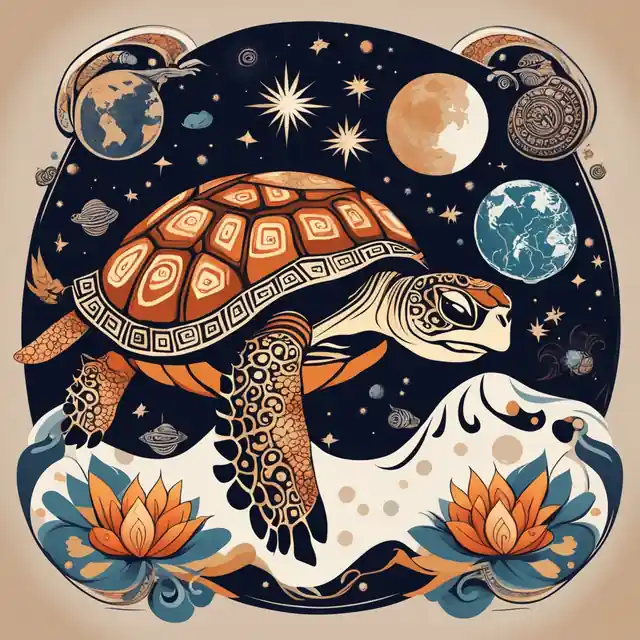
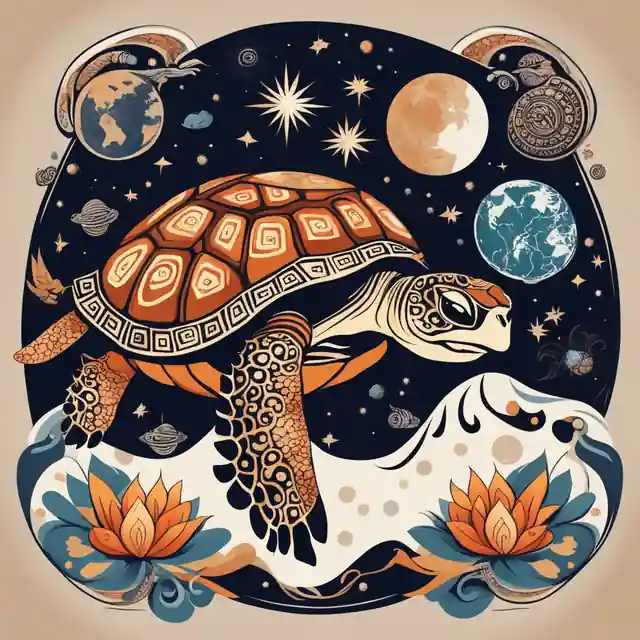
feat: update turtle and hero image optimization settings
Revise the WebP image optimization parameters for turtle and hero images to enhance loading performance. Adjust the image quality settings in the optimization script and update the HTML templates to improve responsive image handling and preloading strategies. This change aims to provide a better user experience through faster image rendering across various devices.

diff --git a/marketing/scripts/build/pages/landing-family.js b/marketing/scripts/build/pages/landing-family.js
@@ -216,7 +216,7 @@ function makeLandingBuilders(ctx) {
         if (imgs[i]) image = imgTag(`/assets/images/${imgs[i]}`, `${s.title} screenshot`, 'w-full max-w-sm', 'loading="lazy" style="border-radius:15%;"');
       } else if (!quotes) {
         const tIdx = i + 1;
-        image = `<picture><source srcset="/assets/images/turtles_${tIdx}-384.webp 384w, /assets/images/turtles_${tIdx}-640.webp 640w" sizes="(max-width: 384px) 100vw, 384px" type="image/webp" width="384" height="384"><img src="/assets/images/turtles_${tIdx}.jpeg" alt="${s.title} illustration" class="w-full max-w-sm" width="384" height="384" loading="lazy" style="border-radius:15%; aspect-ratio:1/1"></picture>`;
+        image = `<picture><source media="(min-width: 640px)" srcset="/assets/images/turtles_${tIdx}-384.webp 384w, /assets/images/turtles_${tIdx}-640.webp 640w" sizes="384px" type="image/webp"><source srcset="/assets/images/turtles_${tIdx}-384.webp 1x" type="image/webp"><img src="/assets/images/turtles_${tIdx}.jpeg" alt="${s.title} illustration" class="w-full max-w-sm" width="384" height="384" loading="lazy" style="border-radius:15%; aspect-ratio:1/1"></picture>`;
       }
 
       const textOnRight = (s.align === 'right') || (s.align === undefined && i % 2 === 0);
@@ -265,7 +265,7 @@ function makeLandingBuilders(ctx) {
     const heroImgSrc = heroImgBase ? `/assets/images/${heroImgBase}` : '';
     const heroImgName = heroImgBase.replace(/\.[^.]+$/, '');
     const heroImg = heroImgSrc
-      ? `<picture><source srcset="/assets/images/${heroImgName}-348.webp 348w, /assets/images/${heroImgName}-448.webp 448w, /assets/images/${heroImgName}-896.webp 896w" sizes="(max-width: 448px) 100vw, 448px" type="image/webp" width="448" height="307"><img src="${heroImgSrc}" alt="${data.hero?.title || data.title || 'Lotusia'} hero image" class="w-full max-w-md" width="448" height="307" fetchpriority="high" style="border-radius:15%; aspect-ratio:448/307"></picture>`
+      ? `<picture><source media="(min-width: 640px)" srcset="/assets/images/${heroImgName}-448.webp 448w, /assets/images/${heroImgName}-896.webp 896w" sizes="448px" type="image/webp"><source srcset="/assets/images/${heroImgName}-348.webp 348w, /assets/images/${heroImgName}-448.webp 448w" sizes="calc(100vw - 2rem)" type="image/webp"><img src="${heroImgSrc}" alt="${data.hero?.title || data.title || 'Lotusia'} hero image" class="w-full max-w-md" width="448" height="307" fetchpriority="high" style="border-radius:15%; aspect-ratio:448/307"></picture>`
       : '';
 
     const pageTitle = pi.og_title || data.ogTitle || data.title || '';
@@ -335,7 +335,7 @@ function makeLandingBuilders(ctx) {
       breadcrumb_html: breadcrumbDiv,
       json_ld: jsonLd(...ldItems),
       head_extra: isHome && heroImgName
-        ? `<link rel="preload" href="/assets/images/${heroImgName}-448.webp" as="image" type="image/webp" fetchpriority="high" imagesrcset="/assets/images/${heroImgName}-348.webp 348w, /assets/images/${heroImgName}-448.webp 448w, /assets/images/${heroImgName}-896.webp 896w" imagesizes="(max-width: 448px) 100vw, 448px">`
+        ? `<link rel="preload" href="/assets/images/${heroImgName}-448.webp" as="image" type="image/webp" fetchpriority="high" imagesrcset="/assets/images/${heroImgName}-348.webp 348w, /assets/images/${heroImgName}-448.webp 448w" imagesizes="calc(100vw - 2rem)">`
         : ''
     };
     writeOutFromPath(pagePath, renderPage('landing', vars));

diff --git a/marketing/scripts/build/io/templates.js b/marketing/scripts/build/io/templates.js
@@ -15,7 +15,7 @@ function fill(tmpl, vars) {
 function versionAssetUrls(html) {
   const v = ASSET_VERSION;
   html = html.replace(/((?:href|src)=")(\/assets\/[^"?]+)(")/g, `$1$2?v=${v}$3`);
-  html = html.replace(/(\/assets\/[^\s"]+\.(?:webp|png|jpe?g|gif|svg|avif))\s+(\d+w)/g, `$1?v=${v} $2`);
+  html = html.replace(/(\/assets\/[^\s"]+\.(?:webp|png|jpe?g|gif|svg|avif))\s+(\d+[wx])/g, `$1?v=${v} $2`);
   html = html.replace(/(imagesrcset="[^"]*?)(\/assets\/[^\s"]+\.(?:webp|png|jpe?g))\s+(\d+w)/g, function(m, pre, url, w) {
     return `${pre}${url}?v=${v} ${w}`;
   });

diff --git a/marketing/scripts/optimize-turtle-webp.py b/marketing/scripts/optimize-turtle-webp.py
@@ -29,14 +29,14 @@ def main() -> None:
         jpeg = BASE / f'turtles_{i}.jpeg'
         if not jpeg.exists():
             continue
-        save_webp(jpeg, BASE / f'turtles_{i}-384.webp', (384, 384), 35)
-        save_webp(jpeg, BASE / f'turtles_{i}-640.webp', (640, 640), 32)
+        save_webp(jpeg, BASE / f'turtles_{i}-384.webp', (384, 384), 18)
+        save_webp(jpeg, BASE / f'turtles_{i}-640.webp', (640, 640), 22)
 
     hero = BASE / 'turtles_hero.jpeg'
     if hero.exists():
-        save_webp(hero, BASE / 'turtles_hero-348.webp', 348, 42)
-        save_webp(hero, BASE / 'turtles_hero-448.webp', 448, 42)
-        save_webp(hero, BASE / 'turtles_hero-896.webp', 896, 32)
+        save_webp(hero, BASE / 'turtles_hero-348.webp', 348, 35)
+        save_webp(hero, BASE / 'turtles_hero-448.webp', 448, 32)
+        save_webp(hero, BASE / 'turtles_hero-896.webp', 896, 20)
 
     print('optimize-turtle-webp: done')
 
